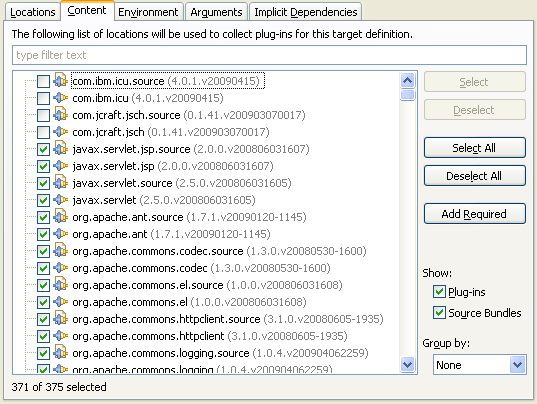
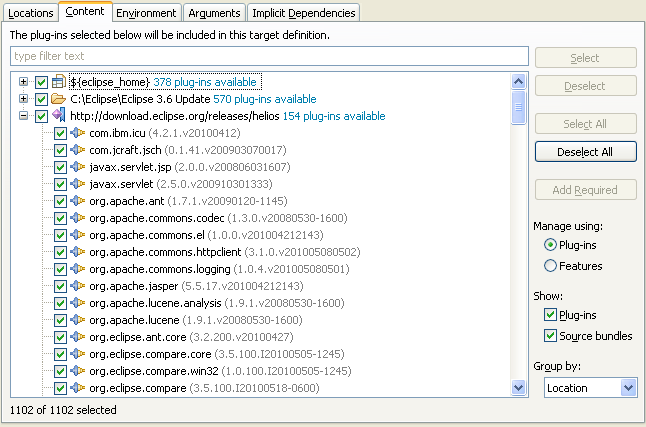
Bug 315450 -  Update target definition doc for feature based targets

Changed region(s): [[0.0, 0.0, 1.0, 1.0]]

diff --git a/bundles/org.eclipse.pde.doc.user/guide/tools/target_shared/edit_target_content_tab.htm b/bundles/org.eclipse.pde.doc.user/guide/tools/target_shared/edit_target_content_tab.htm
@@ -2,7 +2,7 @@
 "http://www.w3.org/TR/html4/loose.dtd">
 <html lang="en">
 <head>
-<meta name="copyright" content="Copyright (c) IBM Corporation and others 2009. This page is made available under license. For full details see the LEGAL in the documentation book that contains this page." >
+<meta name="copyright" content="Copyright (c) IBM Corporation and others 2009, 2010. This page is made available under license. For full details see the LEGAL in the documentation book that contains this page." >
 <meta http-equiv="Content-Type" content="text/html; charset=iso-8859-1">
 <title>Content Tab</title>
 <link rel="stylesheet" href="../../book.css" charset="ISO-8859-1" type="text/css">
@@ -14,7 +14,7 @@
 
 <p>The <strong>Content Tab</strong> in the <a href="./edit_target_wizard.htm">Edit Target Wizard</a> is used to set a subset of plug-ins to include in the target platform.  The tab displays a list of all plug-ins available in the target definition's <a href="./edit_target_locations_tab.htm">locations</a>.  Only the plug-ins checked on this tab will be included.  There are multiple ways to organize and filter the list.  The target content can also be edited on the <a href="../editors/target_editor/content_page.htm">Content Page</a> of the <a href="../editors/target_editor/target_editor.htm">Target Editor</a>.</p>
 
-<img src="../../images/target_shared/edit_target_content_tab.png" alt="Location Tab">
+<p><img src="../../images/target_shared/edit_target_content_tab.png" alt="Content Tab"></p>
 
 <p><strong>Select / Deselect</strong> will check or uncheck the selected plug-ins. </p>
 
@@ -30,6 +30,17 @@
 <li><strong>File Path</strong> - Grouped by the directory path the plug-ins are stored in on the local file system</li>
 <li><strong>Location</strong> - Grouped by the locations set on the <a href="edit_target_locations_tab.htm">locations tab</a></li>
 </ol>
+
+<h2>Managing Content with Features</h2>
+
+<p>On the right hand side, you can choose between two different modes to manage the content of the target.  By default targets
+are managed using a list of plug-ins.  Selecting <strong>Features</strong> will change your target contents to a list of features.</p>
+
+<p><img src="../../images/target_shared/edit_target_content_tab_feature_mode.png" alt="Content Tab Feature Mode"></p>
+
+<p>You can select features in the same way as when managing by plug-ins.  <strong>Add Required</strong> will select any features that the currently
+selected features have in their <em>include</em> or <em>require</em> entries.  If there are plug-ins in the target that do not belong to a
+feature, they will be listed under the <em>Other Plug-ins</em> item and can be selected individually.</p>
 
 <p><img src="../../../images/ngrelr.png" alt="Related reference"></p>
 <p>

diff --git a/bundles/org.eclipse.pde.doc.user/guide/tools/editors/target_editor/content_page.htm b/bundles/org.eclipse.pde.doc.user/guide/tools/editors/target_editor/content_page.htm
@@ -2,7 +2,7 @@
 "http://www.w3.org/TR/html4/loose.dtd">
 <html lang="en">
 <head>
-<meta name="copyright" content="Copyright (c) IBM Corporation and others 2009. This page is made available under license. For full details see the LEGAL in the documentation book that contains this page." >
+<meta name="copyright" content="Copyright (c) IBM Corporation and others 2009, 2010. This page is made available under license. For full details see the LEGAL in the documentation book that contains this page." >
 <meta http-equiv="Content-Type" content="text/html; charset=iso-8859-1">
 <title>Content Page</title>
 <link rel="stylesheet" href="../../../book.css" charset="ISO-8859-1" type="text/css">
@@ -32,8 +32,18 @@
 <li><strong>File Path</strong> - Grouped by the directory path the plug-ins are stored in on the local file system</li>
 <li><strong>Location</strong> - Grouped by the locations set on the <a href="../../target_shared/edit_target_locations_tab.htm">locations tab</a></li>
 </ol>
-  
-  
+
+<h2>Managing Content with Features</h2>
+
+<p>On the right hand side, you can choose between two different modes to manage the content of the target.  By default targets
+are managed using a list of plug-ins.  Selecting <strong>Features</strong> will change your target contents to a list of features.</p>
+
+<img src="../../../images/target_editor/content_page_feature_mode.png" alt="Content Page Feature Mode">
+
+<p>You can select features in the same way as when managing by plug-ins.  <strong>Add Required</strong> will select any features that the currently
+selected features have in their <em>include</em> or <em>require</em> entries.  If there are plug-ins in the target that do not belong to a
+feature, they will be listed under the <em>Other Plug-ins</em> item and can be selected individually.</p>
+    
 <p><img src="../../../../images/ngrelr.png" alt="Related reference"></p>
 <p>
 <a href="./target_editor.htm">Target Definition Editor</a><br>
